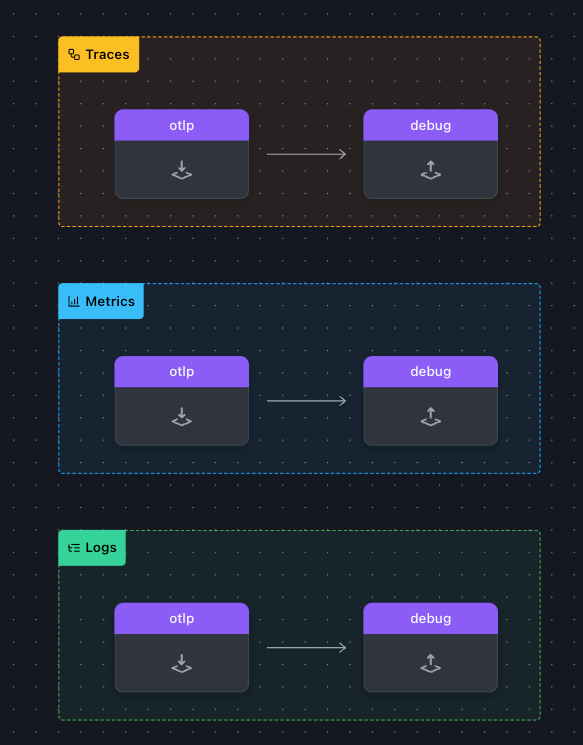
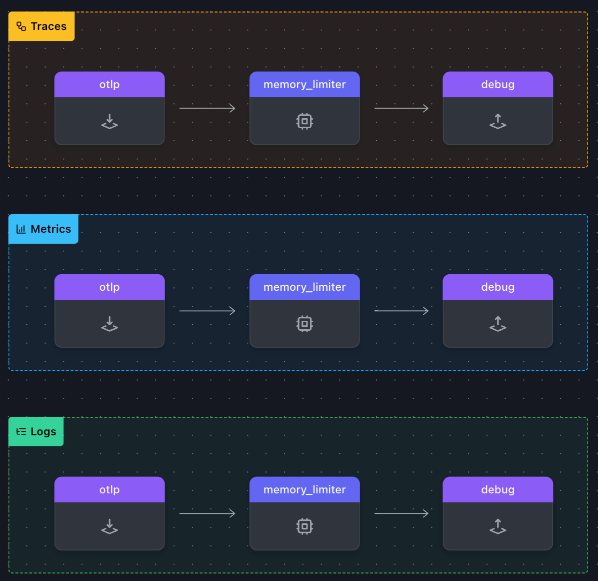
end of day push

diff --git a/content/en/ninja-workshops/10-advanced-otel/10-agent-setup/fileexporter.md b/content/en/ninja-workshops/10-advanced-otel/10-agent-setup/fileexporter.md
@@ -9,122 +9,37 @@ Let's run our second exercise:
 
 {{% notice title="Exercise" style="green" icon="running" %}}
 
-* Add an **file** exporter, add a *path* entry, with a value of *"agent.out"* and add the exporter as the first exporter entry to all the pipelines (leaving debug in place)
+* Add an **file:** exporter, add a *path:* entry, with a value of *"./agent.out"*
+* Configure file size constrains by adding a *rotation:* section, add a *max_megabytes:* entry  with a value of *"2"* as well as and *max_backups:* also with a value of 2
+* Add the exporter as the first exporter entry to all the pipelines (leaving debug as the second one )
 
 {{% /notice %}}
 
 Validate your new `agent.yaml` with [https://otelbin.io](https://otelbin.io), your pipelines should look like this:
 
-![otelbin1](../images/agent-1-1.png)
+![otelbin2](../../images/agent-1-2.png)
 
----
-Run the following command to  test your config (make sure you use the right otel collector you downloaded):
+start your collector again with your new config to test it:
 
 ```text
 otelcol_darwin_arm64 --config=agent.yaml
 ```
 
-If you have done everything correctly the last line of the out put should be:
+Again, if you have done everything correctly, the last line of the output should be:
 
 ```text
-2025-01-13T12:43:51.747+0100 info service@v0.115.0/service.go:261 Everything is ready. Begin running and processing data.
+2025-01-13T12:43:51.747+0100 info service@v0.116.0/service.go:261 Everything is ready. Begin running and processing data.
 ```
 
-Now  start a new shell and create a file called **trace.json* and copy the following content:
+If you send a trace again, you should get the same output as we saw previously, but you also should have a file in the same directory called **agent.out**
+In the file the trace is written as a single line in oltp.json format, when you look at the file it looks like this:
 
-```json
-{
-    "resourceSpans": [
-      {
-        "resource": {
-          "attributes": [
-            {
-              "key": "service.name",
-              "value": {
-                "stringValue": "my.service"
-              }
-            },
-            {
-              "key": "deployment.environment",
-              "value": {
-                "stringValue": "my.environment"
-              }
-            }
-          ]
-        },
-        "scopeSpans": [
-          {
-            "scope": {
-              "name": "my.library",
-              "version": "1.0.0",
-              "attributes": [
-                {
-                  "key": "my.scope.attribute",
-                  "value": {
-                    "stringValue": "some scope attribute"
-                  }
-                }
-              ]
-            },
-            "spans": [
-              {
-                "traceId": "5B8EFFF798038103D269B633813FC60C",
-                "spanId": "EEE19B7EC3C1B174",
-                "parentSpanId": "EEE19B7EC3C1B173",
-                "name": "I'm a server span",
-                "startTimeUnixNano": "1544712660000000000",
-                "endTimeUnixNano": "1544712661000000000",
-                "kind": 2,
-                "attributes": [
-                  {
-                    "keytest": "my.span.attr",
-                    "value": {
-                      "stringValue": "some value"
-                    }
-                  }
-                ]
-              }
-            ]
-          }
-        ]
-      }
-    ]
-  }
+```text
+
 ```
 
-In the second Shell, run the following command to test your setup:
+If you want it json expanded, you can cat the file and pipe it though jq ( if you have it installed)
 
-```shell
-curl -X POST -i http://localhost:4318/v1/traces \
--H "Content-Type: application/json" \
- -d @trace.json 
-```
-
-Your collector should show the following output:
-
- ```text
-2025-01-13T13:26:13.502+0100 info Traces {"kind": "exporter", "data_type": "traces", "name": "debug", "resource spans": 1, "spans": 1}
-2025-01-13T13:26:13.502+0100 info ResourceSpans #0
-Resource SchemaURL:
-Resource attributes:
-    -> service.name: Str(my.service)
-    -> deployment.environment: Str(my.environment)
-ScopeSpans #0
-ScopeSpans SchemaURL:
-InstrumentationScope my.library 1.0.0
-InstrumentationScope attributes:
-    -> my.scope.attribute: Str(some scope attribute)
-Span #0
-    Trace ID       : 5b8efff798038103d269b633813fc60c
-    Parent ID      : eee19b7ec3c1b173
-    ID             : eee19b7ec3c1b174
-    Name           : I'm a server span
-    Kind           : Server
-    Start time     : 2018-12-13 14:51:00 +0000 UTC
-    End time       : 2018-12-13 14:51:01 +0000 UTC
-    Status code    : Unset
-    Status message :
-Attributes:
-    -> : Str(some value)
-    {"kind": "exporter", "data_type": "traces", "name": "debug"}
+```bash
+cat ./agent.json | jq
 ```

diff --git a/content/en/ninja-workshops/10-advanced-otel/10-agent-setup/_index.md b/content/en/ninja-workshops/10-advanced-otel/10-agent-setup/_index.md
@@ -30,8 +30,9 @@ Let's start with our first exercise:
 
 {{% notice title="Exercise" style="green" icon="running" %}}
 
-* Add an **otlp** receiver, under the *protocols* section, add a *HTTP* entry, with an endpoint of *"0.0.0.0:4318"* and add it to all the pipelines  
-* Add a **debug** exporter with *verbosity* entry set to *detailed* and also add it to all the pipelines
+* Add an **otlp:** receiver, under the *protocols:* section, add a *HTTP:* entry, with an endpoint of *"0.0.0.0:4318"* and add it as a receiver to all the 8*receiver:* sections of the pipelines  
+* Enable the **memory_limiter:** processor by adding it in the *processor:* section of all the pipelines
+* Add a **debug:* exporter with *verbosity:* entry set to *detailed* and also add it as an exporter in all *exporter:* sections of the pipelines
 
 {{% /notice %}}
 
@@ -52,7 +53,7 @@ Run the following command to  test your config (make sure you use the right otel
 [LOCATION_OF_OTELCOLLECTOR]/otelcol_darwin_arm64 --config=agent.yaml
 ```
 
-If you have done everything correctly   the last line of the out put should be :
+If you have done everything correctly, the last line of the output should be :
 
 ```text
 2025-01-13T12:43:51.747+0100 info service@v0.116.0/service.go:261	Everything is ready. Begin running and processing data.
